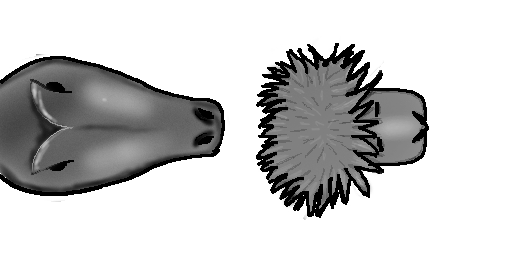
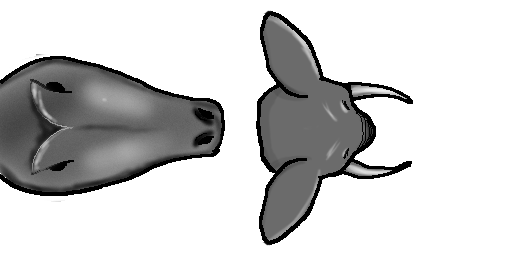
[graphics] Add the elephant spirte.

Changed region(s): [[0.5, 0.0312, 0.8438, 0.9688]]

diff --git a/src/code/local/KreatureContainer.cc b/src/code/local/KreatureContainer.cc
@@ -28,6 +28,7 @@
 #include "Messages.h"
 
 namespace kkd {
+  static constexpr int TotalAnimal = 2;
 
   namespace {
     gf::Color4f getKreatureColor(KreatureContainer::ColorName ith) {
@@ -54,6 +55,10 @@ namespace kkd {
       return static_cast<KreatureContainer::ColorName>(gRandom().computeUniformInteger(0, 4));
     }
 
+    int randomOffset() {
+      return gRandom().computeUniformInteger(0, TotalAnimal - 1);
+    }
+
   }
 
   KreatureContainer::KreatureContainer()
@@ -74,9 +79,13 @@ namespace kkd {
 
       auto kreature = std::make_unique<Kreature>(gf::Vector2f(x, y), rotation, gf::Vector2f(xTarget, yTarget));
       kreature->body.color = randomColor();
+      kreature->body.offset = randomOffset();
       kreature->head.color = randomColor();
+      kreature->head.offset = randomOffset();
       kreature->limbs.color = randomColor();
+      kreature->limbs.offset = randomOffset();
       kreature->tail.color = randomColor();
+      kreature->tail.offset = randomOffset();
 
       m_kreatures.push_back(std::move(kreature));
     }
@@ -203,7 +212,7 @@ namespace kkd {
       static constexpr gf::Vector2f BodySpriteSize = { 256.0f, 256.0f };
       static constexpr gf::Vector2f BodyWorldSize = { 128.0f, 128.0f };
 
-      gf::Sprite body(m_kreatureBodyTexture);
+      gf::Sprite body(m_kreatureBodyTexture, gf::RectF(kreature->body.offset * gf::Vector2f(1.0f / TotalAnimal, 0.0f), { 1.0f / TotalAnimal, 1.0f }));
       body.setScale(BodyWorldSize / BodySpriteSize);
       body.setColor(getKreatureColor(kreature->body.color));
       body.setPosition(kreature->position);
@@ -213,13 +222,12 @@ namespace kkd {
 
       body.setAnchor(gf::Anchor::Center);
 
-
       static constexpr gf::Vector2f HeadSpriteSize = { 256.0f, 256.0f };
       static constexpr gf::Vector2f HeadWorldSize = { 128.0f, 128.0f };
       // Not work !
       // static constexpr gf::Vector2f HeadScale = HeadWorldSize / HeadSpriteSize;
 
-      gf::Sprite head(m_kreatureHeadTexture, gf::RectF(kreature->head.offset * gf::Vector2f(0.5f, 0.0f), { 0.5f, 1.0f }));
+      gf::Sprite head(m_kreatureHeadTexture, gf::RectF(kreature->head.offset * gf::Vector2f(1.0f / TotalAnimal, 0.0f), { 1.0f / TotalAnimal, 1.0f }));
       head.setScale(HeadWorldSize.x / HeadSpriteSize);
       head.setAnchor(gf::Anchor::CenterLeft);
       head.setColor(getKreatureColor(kreature->head.color));
@@ -230,7 +238,7 @@ namespace kkd {
       static constexpr gf::Vector2f AnteLegSpriteSize = { 128.0f, 128.0f };
       static constexpr gf::Vector2f AnteLegWorldSize = { 64.0f, 64.0f };
 
-      gf::Sprite anteLeg(m_kreatureAnteLegTexture, gf::RectF(kreature->limbs.offset * gf::Vector2f(0.5f, 0.0f), { 0.5f, 1.0f }));
+      gf::Sprite anteLeg(m_kreatureAnteLegTexture, gf::RectF(kreature->limbs.offset * gf::Vector2f(1.0f / TotalAnimal, 0.0f), { 1.0f / TotalAnimal, 1.0f }));
       anteLeg.setScale(AnteLegWorldSize / AnteLegSpriteSize);
       anteLeg.setAnchor(gf::Anchor::BottomCenter);
       anteLeg.setColor(getKreatureColor(kreature->limbs.color));
@@ -244,7 +252,7 @@ namespace kkd {
       static constexpr gf::Vector2f PostLegSpriteSize = { 128.0f, 128.0f };
       static constexpr gf::Vector2f PostLegWorldSize = { 64.0f, 64.0f };
 
-      gf::Sprite postLeg(m_kreaturePostLegTexture);
+      gf::Sprite postLeg(m_kreaturePostLegTexture, gf::RectF(kreature->limbs.offset * gf::Vector2f(1.0f / TotalAnimal, 0.0f), { 1.0f / TotalAnimal, 1.0f }));
       postLeg.setScale(PostLegWorldSize / PostLegSpriteSize);
       postLeg.setAnchor(gf::Anchor::BottomCenter);
       postLeg.setColor(getKreatureColor(kreature->limbs.color));
@@ -252,13 +260,13 @@ namespace kkd {
       postLeg.setRotation(kreature->orientation);
       postLeg.draw(target, states);
       postLeg.setScale({ PostLegWorldSize.x / PostLegSpriteSize.x, -PostLegWorldSize.y / PostLegSpriteSize.y });
-      postLeg.setPosition(gf::transform(bodyMatrix, {-70.0f, 40.0f}));
+      postLeg.setPosition(gf::transform(bodyMatrix, {-90.0f, 40.0f}));
       postLeg.draw(target, states);
 
       static constexpr gf::Vector2f TailSpriteSize = { 256.0f, 256.0f };
       static constexpr gf::Vector2f TailWorldSize = { 128.0f, 128.0f };
 
-      gf::Sprite tail(m_kreatureTailTexture);
+      gf::Sprite tail(m_kreatureTailTexture, gf::RectF(kreature->tail.offset * gf::Vector2f(1.0f / TotalAnimal, 0.0f), { 1.0f / TotalAnimal, 1.0f }));
       tail.setScale(TailWorldSize / TailSpriteSize);
       tail.setAnchor(gf::Anchor::CenterRight);
       tail.setColor(getKreatureColor(kreature->tail.color));
@@ -365,9 +373,11 @@ namespace kkd {
     float rand = gRandom().computeUniformFloat(0.0f, 1.0f);
     if (rand < fusionFactor) {
       newPart.color = otherPart.color;
+      newPart.offset = otherPart.offset;
     }
     else if (rand >= FumbleMutation) {
       newPart.color = randomColor();
+      newPart.offset = randomOffset();
     }
 
     return newPart;
